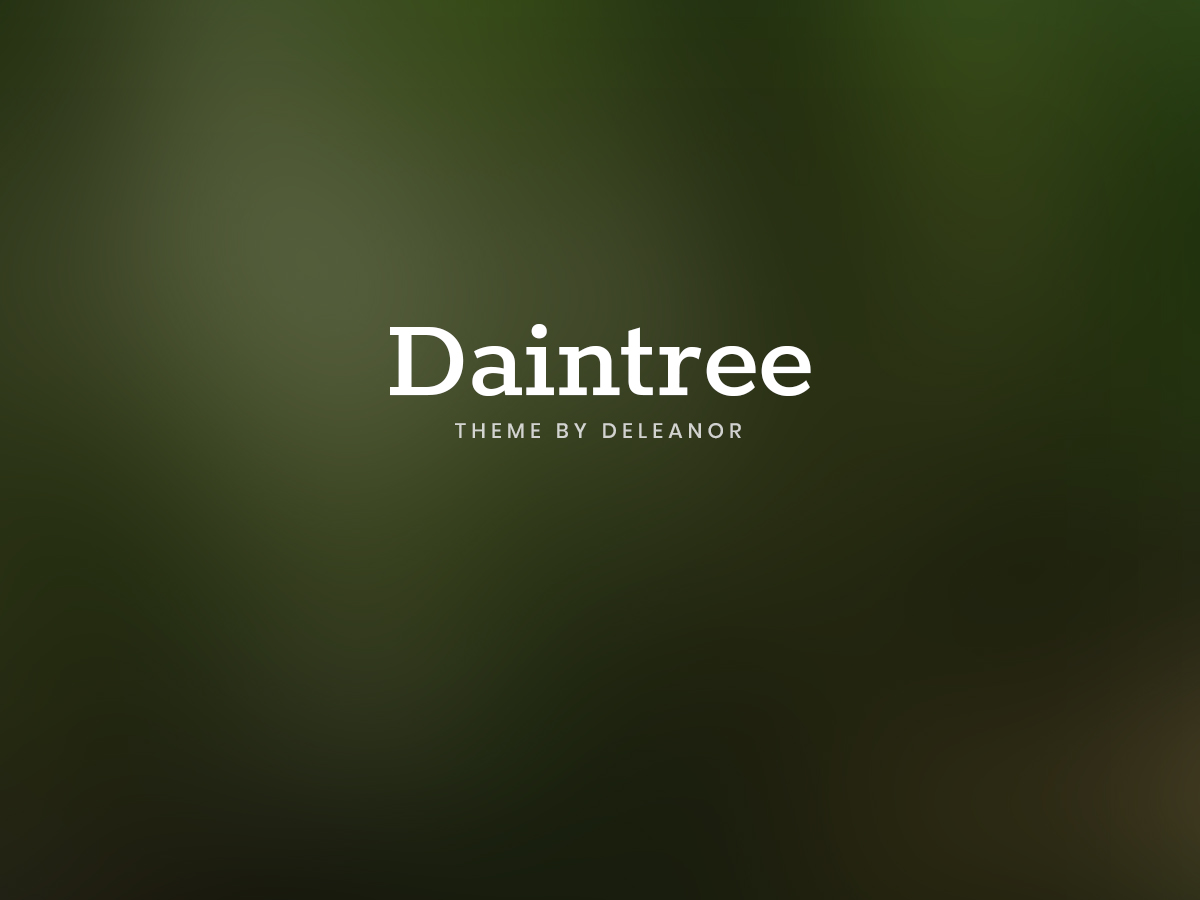
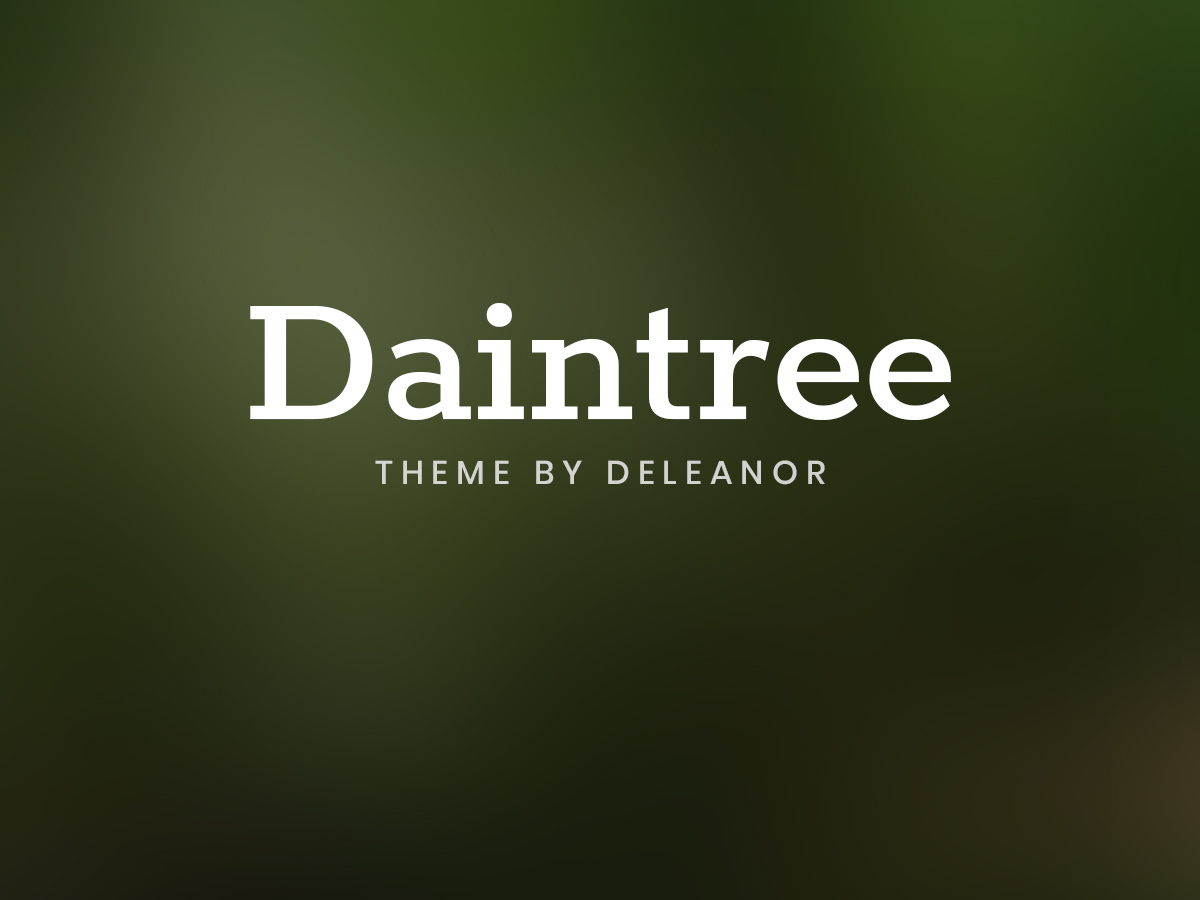
Update screenshot

Changed region(s): [[0.185, 0.3422, 0.8017, 0.56]]

diff --git a/style.css b/style.css
@@ -1,5 +1,5 @@
 /*
- * Theme Name: My Timber Starter Theme
- * Description: Starter Theme to use with Timber
- * Author: Upstatement and YOU!
+ * Theme Name: Daintree
+ * Description: A WordPress theme built on Timber
+ * Author: Deleanor
 */
